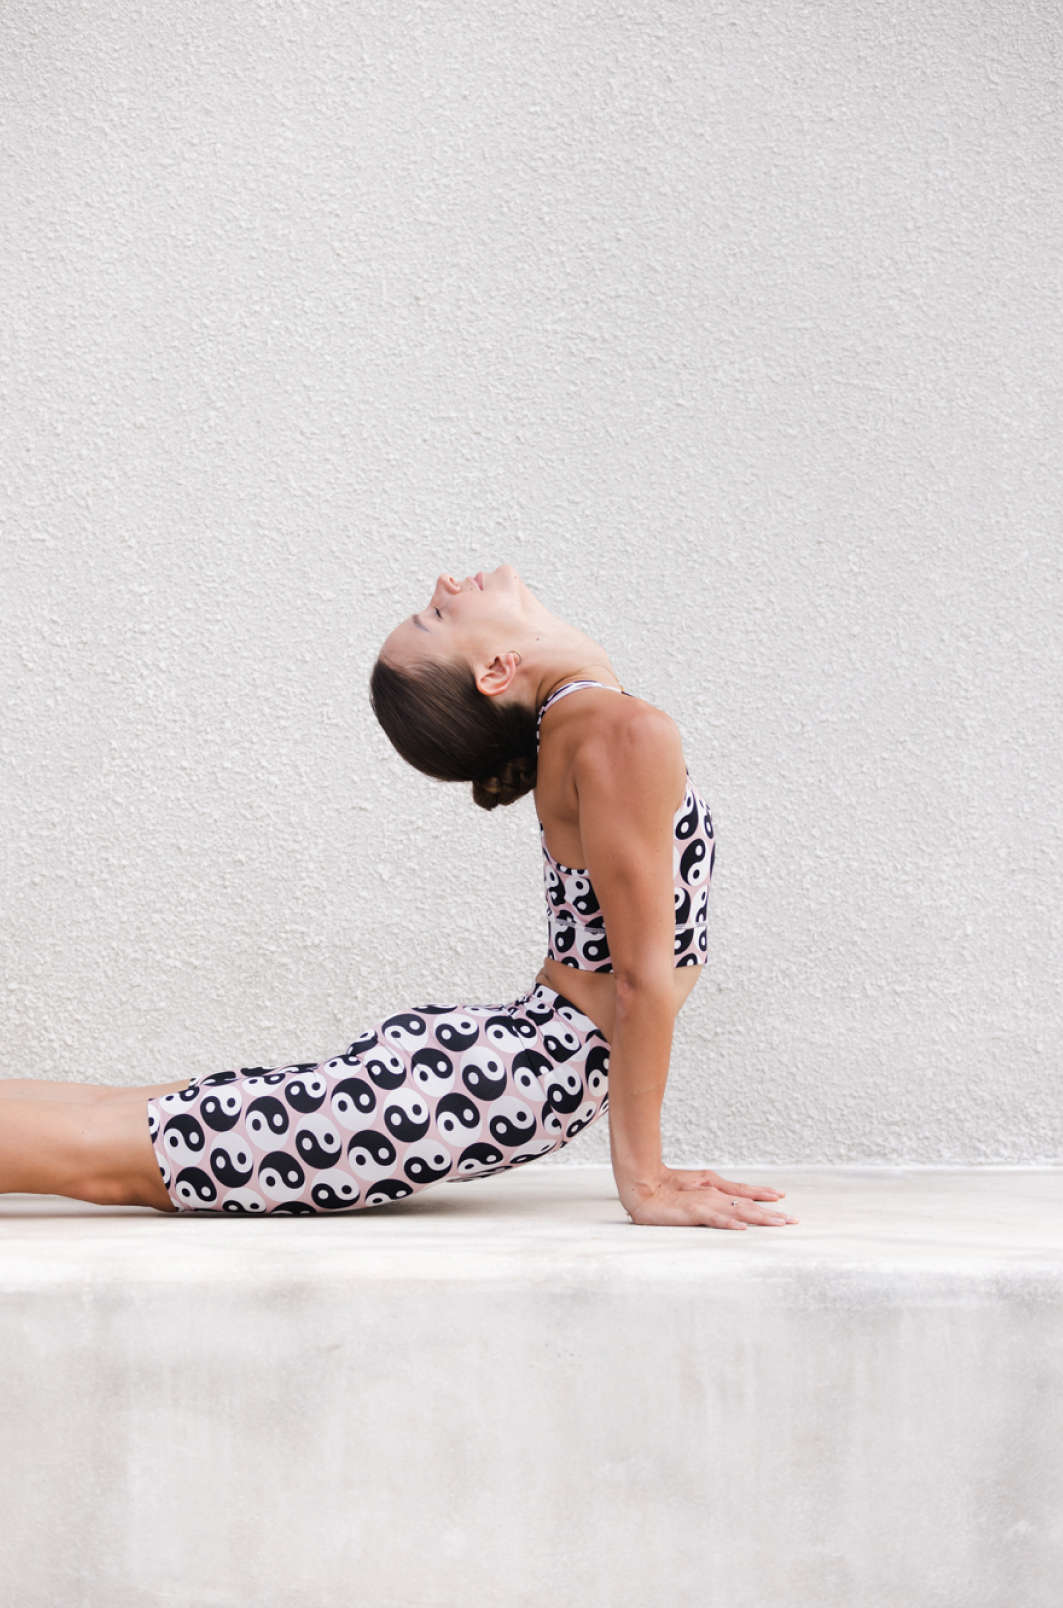
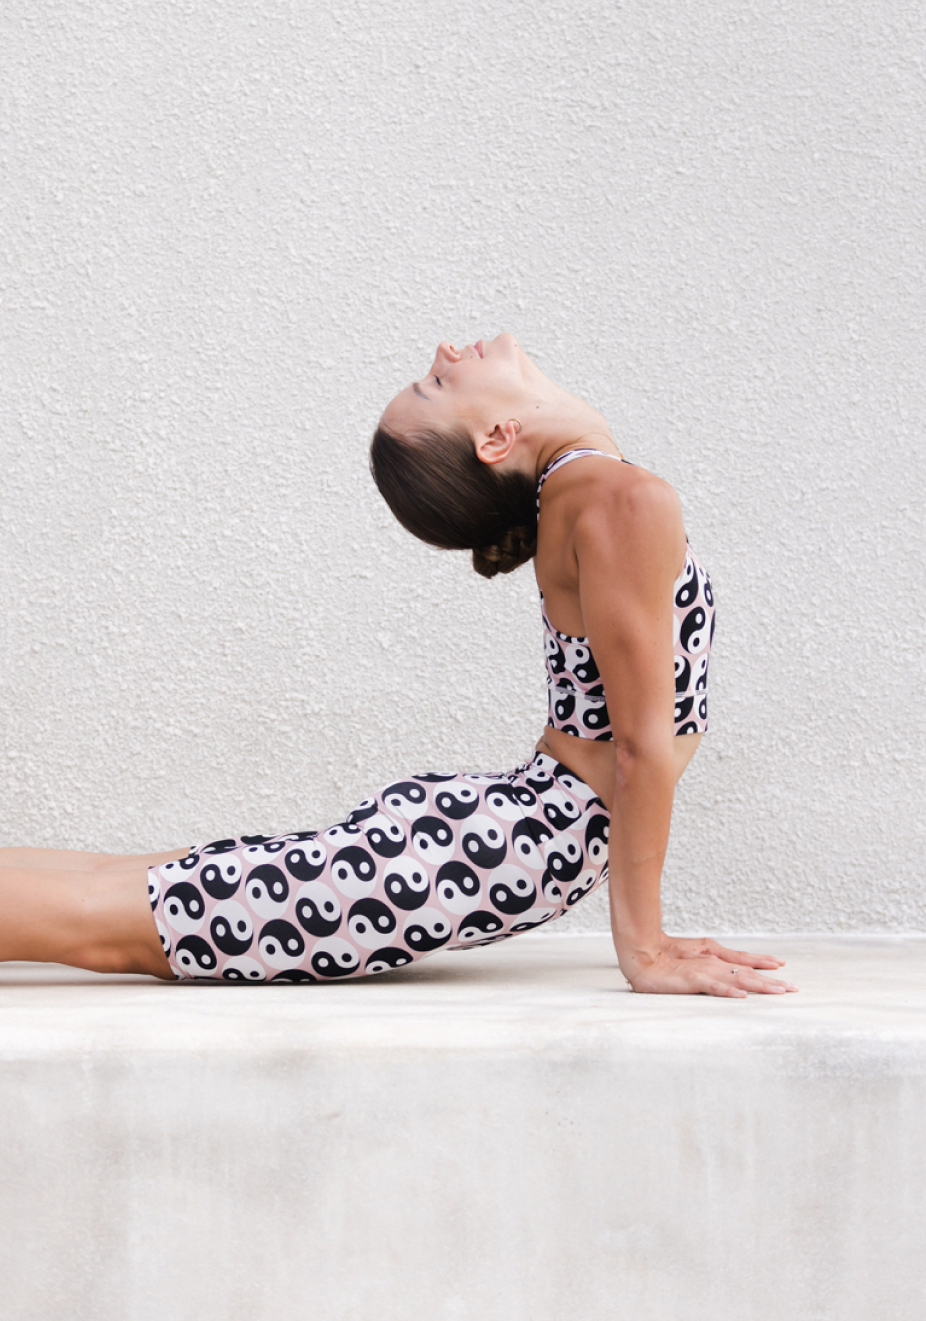
updates on schedule image

diff --git a/_includes/class-cards.html b/_includes/class-cards.html
@@ -1,6 +1,6 @@
-<section>
-    <div>
-        {% for class in site.classes %}
+<section class="p-10p">
+    <div class="grid grid-cols-3">
+        {% for class in site.classes limit:3 %}
         <div>
             <h3>{{class.title}}</h3>
             <p>{{class.description}}</p>

diff --git a/schedule.html b/schedule.html
@@ -2,7 +2,7 @@
 layout: default 
 title: Schedule
 banner:
- image: https://placekitten.com/900/600
+ image: /images/the-yoga-studio-8.jpg
  heading: Schedule
 ---
 
